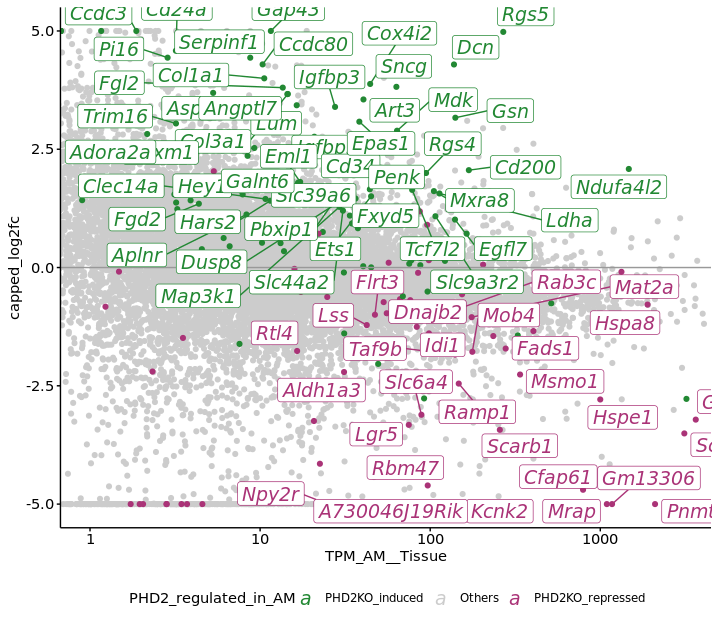
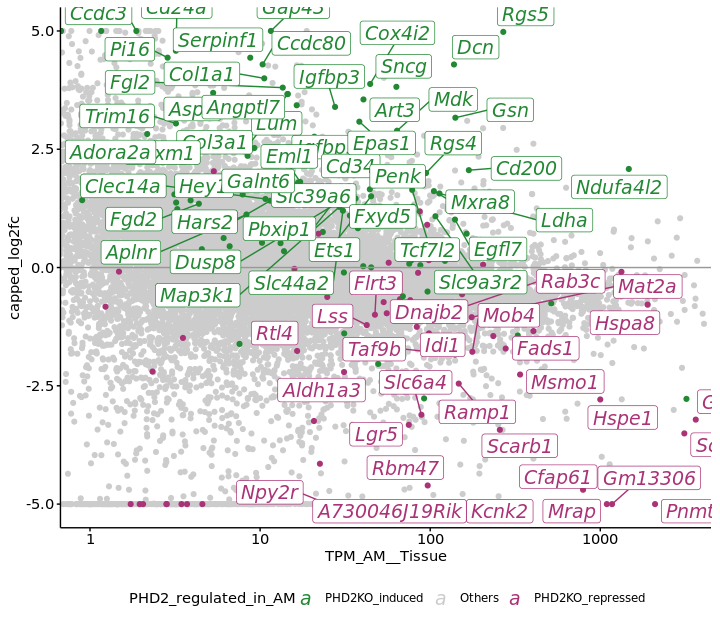
raw data file added

diff --git a/doc/s3-analysis-of-differentially-expressed-genes/s3-1-CB-vs-PHD2KO-in-AM.md b/doc/s3-analysis-of-differentially-expressed-genes/s3-1-CB-vs-PHD2KO-in-AM.md
@@ -1,7 +1,7 @@
 ---
 title: "s3-1 Concordance of differentially expressed genes in the comparison of CB vs AM and that of Phd2KO vs wild-type AM"
 author: "Yoichiro Sugimoto"
-date: "23 June, 2023"
+date: "09 August, 2023"
 vignette: >
   %\VignetteIndexEntry{Bioconductor style for PDF documents}
   %\VignetteEngine{knitr::rmarkdown}
@@ -168,11 +168,28 @@ plotMA <- function(res.summary.dt, data.postfix = "Tissue", data.vals = c("AM", 
 
 
 ```r
-g.phd <- res.summary.dt[
-    (TPM_WT__CB_PHD2KO > 10 | TPM_PHD2KO__CB_PHD2KO > 10 |
-    TPM_WT__AM_PHD2KO > 10 | TPM_PHD2KO__AM_PHD2KO > 10) &
-    !is.na(padj__CB_PHD2KO) & !is.na(padj__AM_PHD2KO)
-] %T>%
+s1.sl.dt <- res.summary.dt[
+(TPM_WT__CB_PHD2KO > 10 | TPM_PHD2KO__CB_PHD2KO > 10 |
+ TPM_WT__AM_PHD2KO > 10 | TPM_PHD2KO__AM_PHD2KO > 10) &
+!is.na(padj__CB_PHD2KO) & !is.na(padj__AM_PHD2KO)
+]
+
+export.base.cols <- c("gene_id", "gene_name", "gene_type")
+
+s1.rawdata.dt <- copy(s1.sl.dt[, c(
+    export.base.cols,
+    "log2fc__CB_PHD2KO", "log2fc__AM_PHD2KO"
+), with = FALSE])
+
+setnames(
+    s1.rawdata.dt,
+    old = c("log2fc__CB_PHD2KO", "log2fc__AM_PHD2KO"),
+    new = c("log2FC_by_Phd2ko_in_CB", "log2FC_by_Phd2ko_in_AM")
+)
+
+fwrite(s1.rawdata.dt, file.path(s3.dir, "Supplementary_Fig_1A.csv"))
+
+g.phd <- s1.sl.dt %T>%
     {print(paste0("n = ", nrow(.)))} %>%
     ggplot(
         aes(
@@ -246,6 +263,22 @@ p.res.1 <- plotMA(
     log2fc_cap = log2fc.cap
 )
 
+fig1b.raw.dt <- copy(p.res.1$sl.dt)
+
+fig1b.raw.dt <- fig1b.raw.dt[, c(
+    export.base.cols,
+    "TPM_AM__Tissue",
+    "capped_log2fc",
+    "PHD2_regulated_in_AM"
+), with = FALSE]
+
+setnames(
+    fig1b.raw.dt,
+    old = c("TPM_AM__Tissue", "capped_log2fc", "PHD2_regulated_in_AM"),
+    new = c("TPM in AM (WT)", "log2FC (CB vs AM)", "class")
+)
+
+fwrite(fig1b.raw.dt, file.path(s3.dir, "Fig_1B.csv"))
 
 p.res.1$sl.dt[order(padj__AM_PHD2KO, decreasing = TRUE)] %>%
     ggplot(
@@ -294,6 +327,22 @@ p.res.1$sl.dt[order(padj__AM_PHD2KO, decreasing = TRUE)] %>%
 ![](s3-1-CB-vs-PHD2KO-in-AM_files/figure-html/concordance-1.png)<!-- -->
 
 ```r
+fig1c.raw.dt <- copy(p.res.1$sl.dt)
+
+fig1c.raw.dt <- fig1c.raw.dt[, c(
+    export.base.cols,
+    "ave_log2fc",
+    "PHD2_regulated_in_AM"
+), with = FALSE]
+
+setnames(
+    fig1c.raw.dt,
+    old = c("ave_log2fc", "PHD2_regulated_in_AM"),
+    new = c("log2FC (CB vs AM)", "class")
+)
+
+fwrite(fig1c.raw.dt, file.path(s3.dir, "Fig_1C.csv"))
+
 ggplot(
     data = p.res.1$sl.dt,
     aes(
@@ -431,6 +480,21 @@ p.res.2 <- plotMA(
     log2fc_cap = log2fc.cap
 )
 
+s1b.raw.dt <- copy(p.res.2$sl.dt)
+
+s1b.raw.dt <- s1b.raw.dt[, c(
+    export.base.cols,
+    "ave_log2fc", "PHD2_regulated_in_AM"
+), with = FALSE]
+
+setnames(
+s1b.raw.dt,
+    old = c("ave_log2fc", "PHD2_regulated_in_AM"),
+    new = c("log2FC (CB vs AM)", "class")
+)
+
+fwrite(s1b.raw.dt, file.path(s3.dir, "Supplementary_Fig_1B.csv"))
+
 ggplot(
     data = p.res.2$sl.dt,
     aes(
@@ -498,7 +562,7 @@ sessioninfo::session_info()
 ##  collate  en_GB.UTF-8
 ##  ctype    en_GB.UTF-8
 ##  tz       Europe/Berlin
-##  date     2023-06-23
+##  date     2023-08-09
 ##  pandoc   2.19.2 @ /fast/AG_Sugimoto/home/users/yoichiro/software/miniconda3/envs/20220601_CB_AM_PHD2/bin/ (via rmarkdown)
 ## 
 ## ─ Packages ───────────────────────────────────────────────────────────────────

diff --git a/doc/s3-analysis-of-differentially-expressed-genes/s3-2-analysis-by-gene-class.md b/doc/s3-analysis-of-differentially-expressed-genes/s3-2-analysis-by-gene-class.md
@@ -1,7 +1,7 @@
 ---
 title: "s3-2 Analysis of genes associated with acute oxygen sensing"
 author: "Yoichiro Sugimoto"
-date: "23 June, 2023"
+date: "09 August, 2023"
 vignette: >
   %\VignetteIndexEntry{Bioconductor style for PDF documents}
   %\VignetteEngine{knitr::rmarkdown}
@@ -210,7 +210,7 @@ sessioninfo::session_info()
 ##  collate  en_GB.UTF-8
 ##  ctype    en_GB.UTF-8
 ##  tz       Europe/Berlin
-##  date     2023-06-23
+##  date     2023-08-09
 ##  pandoc   2.19.2 @ /fast/AG_Sugimoto/home/users/yoichiro/software/miniconda3/envs/20220601_CB_AM_PHD2/bin/ (via rmarkdown)
 ## 
 ## ─ Packages ───────────────────────────────────────────────────────────────────
